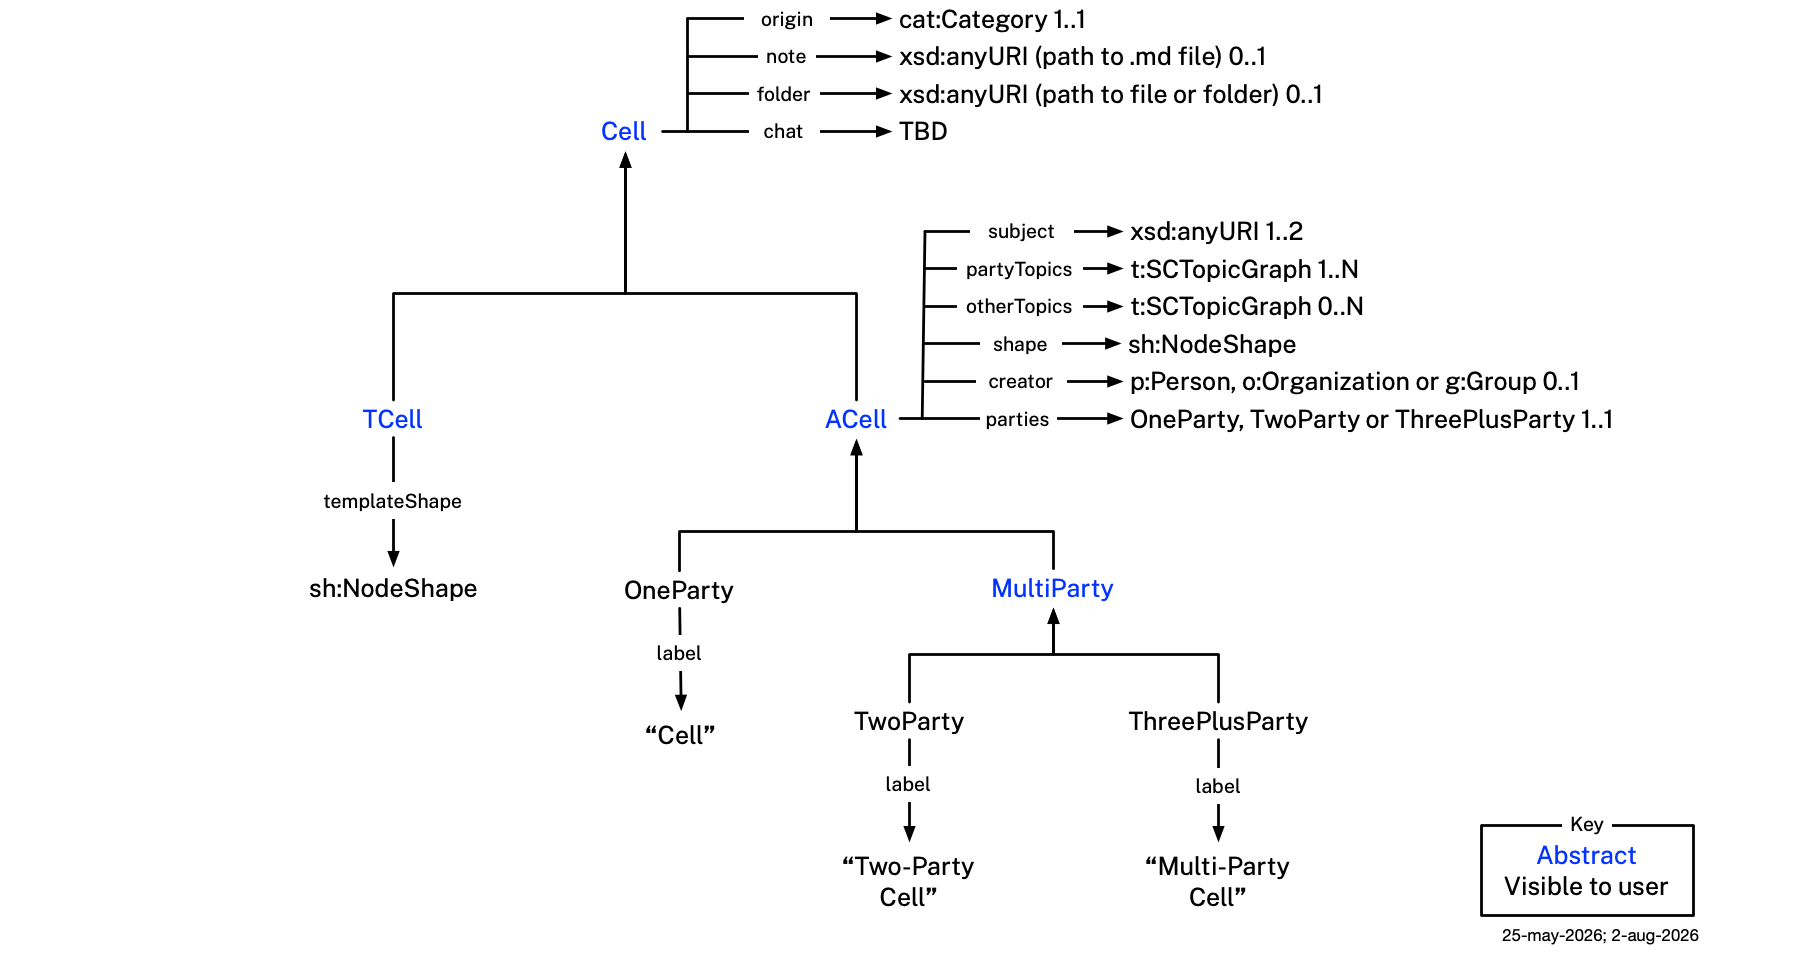
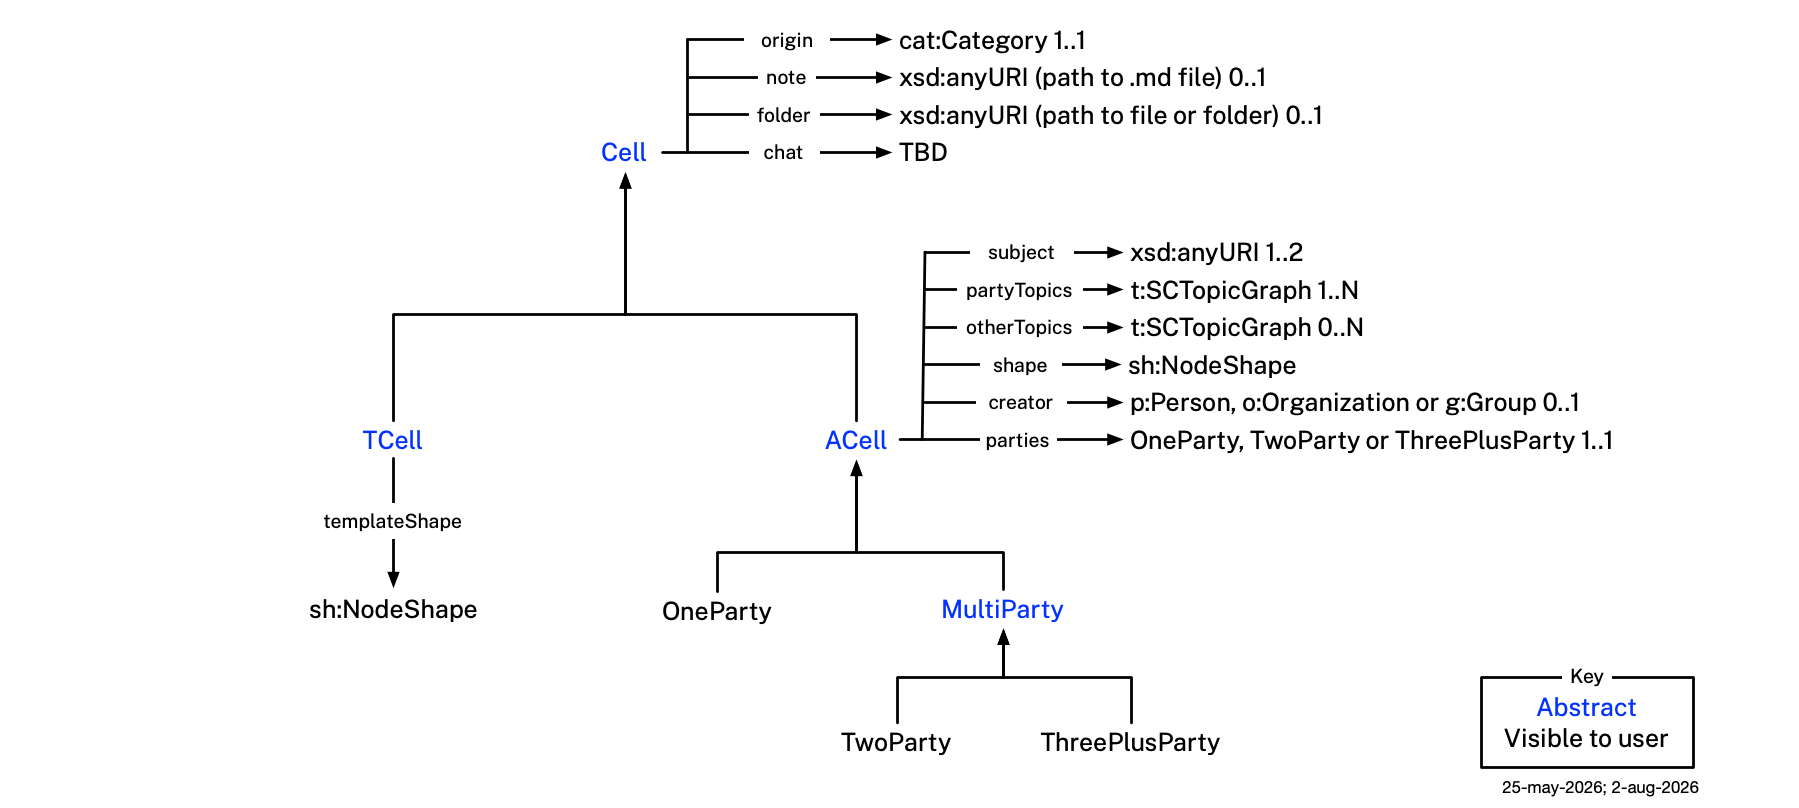
removed label property

diff --git a/README.md b/README.md
@@ -246,8 +246,6 @@ A cell needing both facets at once — e.g. every individual in `cell-templates.
 
 - **`c:parties`** — the concrete `c:ACell` subtype this DataBook instantiates: `c:OneParty`, `c:TwoParty`, or `c:ThreePlusParty`. Value is the class itself (e.g. `mia.parties: "c:OneParty"`). See [Cell Party Composition](#cell-party-composition) above.
 
-- **`c:label`** — default display name for a `c:ACell` subtype (`OneParty`/`TwoParty`/`ThreePlusParty`), e.g. `"Two-Party Cell"`. Asserted directly on the class, not an instance — distinct from `cat:label` (category.ttl), which is the user-editable per-instance display name of an associated `cat:Category`.
-
 #### Cell Parties
 
 Every `c:ACell` is classified by `c:parties` (and redundantly by its subclass) according to how many total parties (the user plus zero or more others) it has been shared with. There are three concrete types: `c:OneParty` (a cell created by the user and not shared with any other party), `c:TwoParty` (the user plus exactly one other party), and `c:ThreePlusParty` (the user plus two or more other parties).
